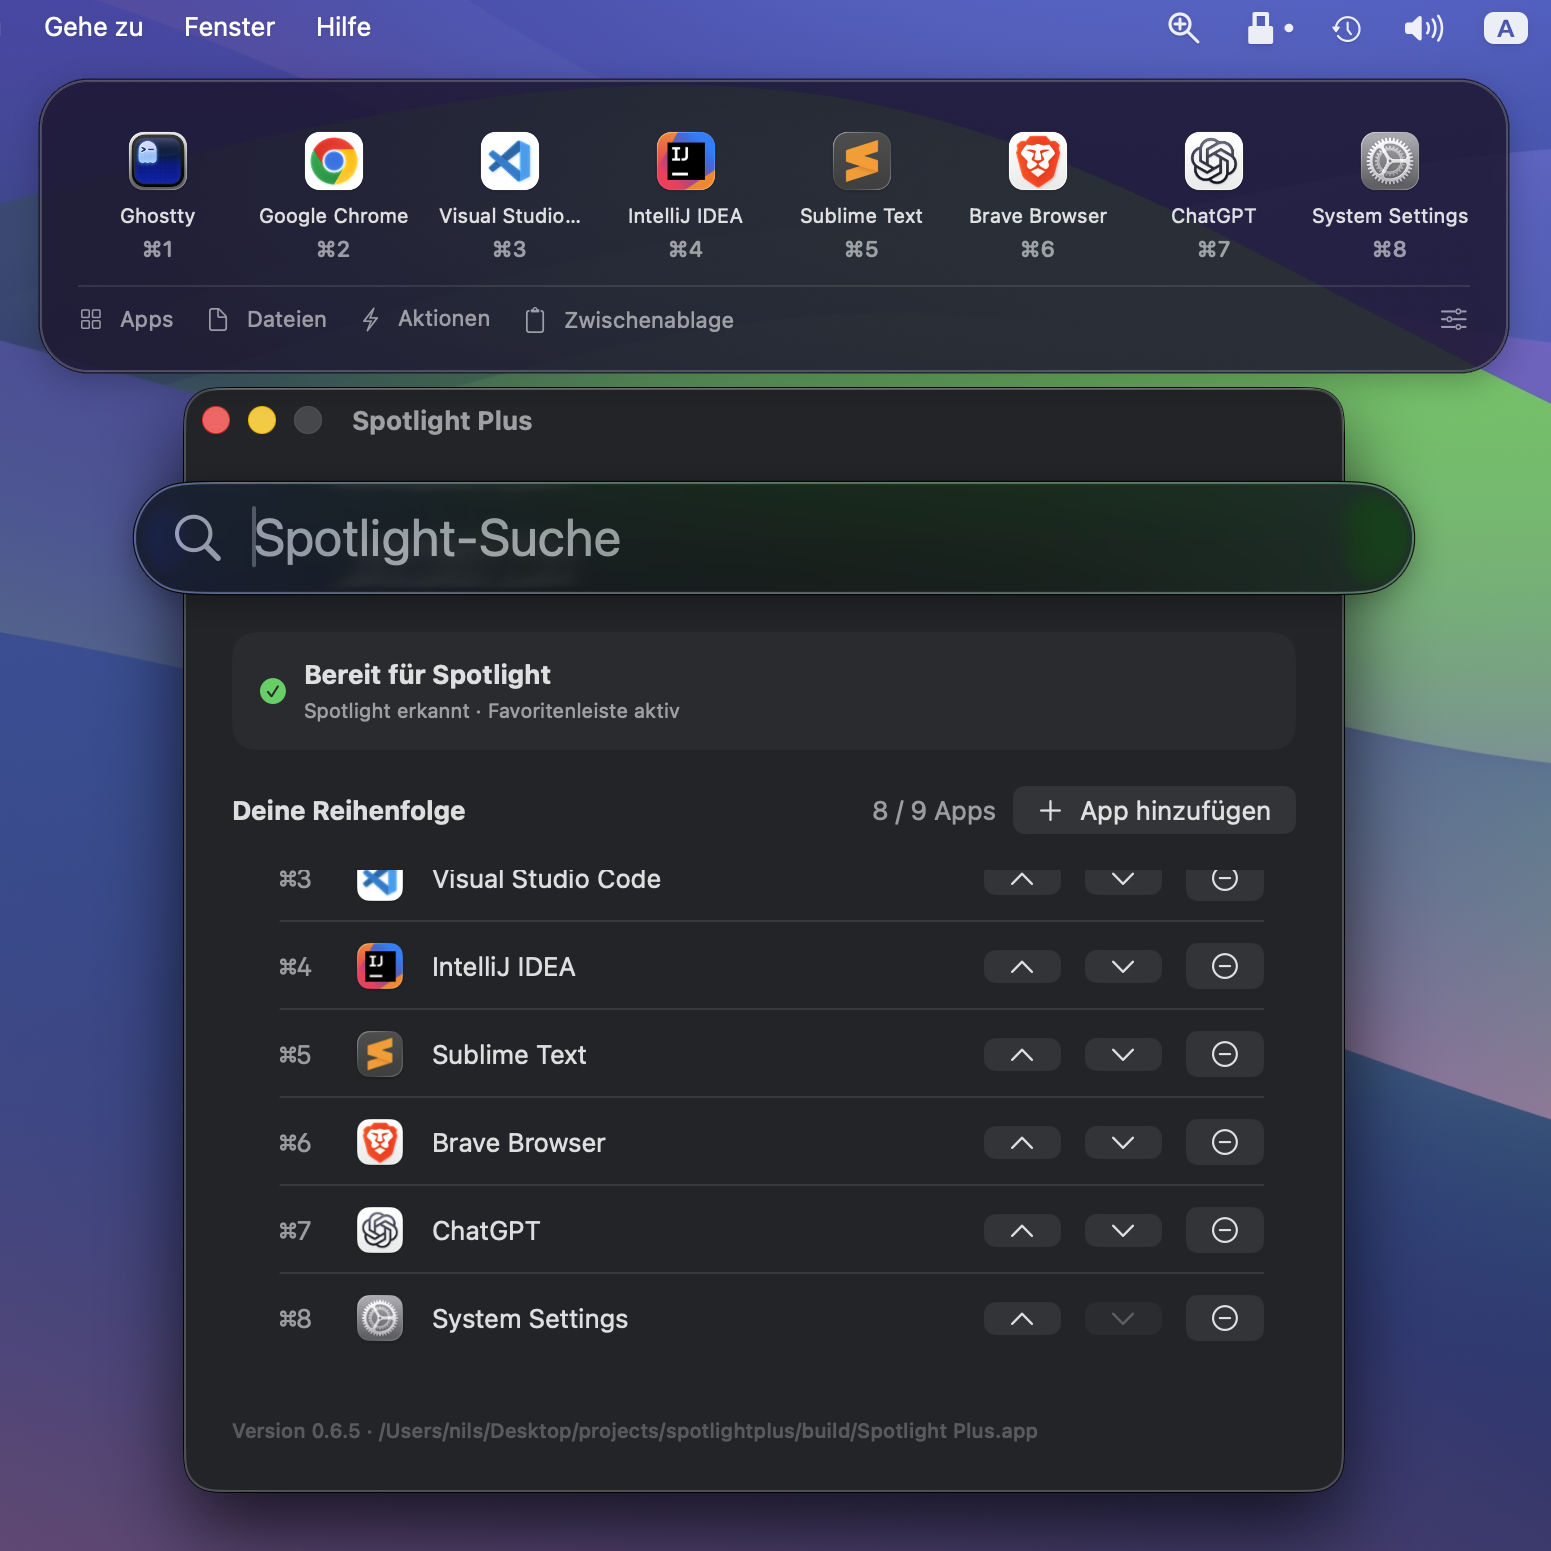
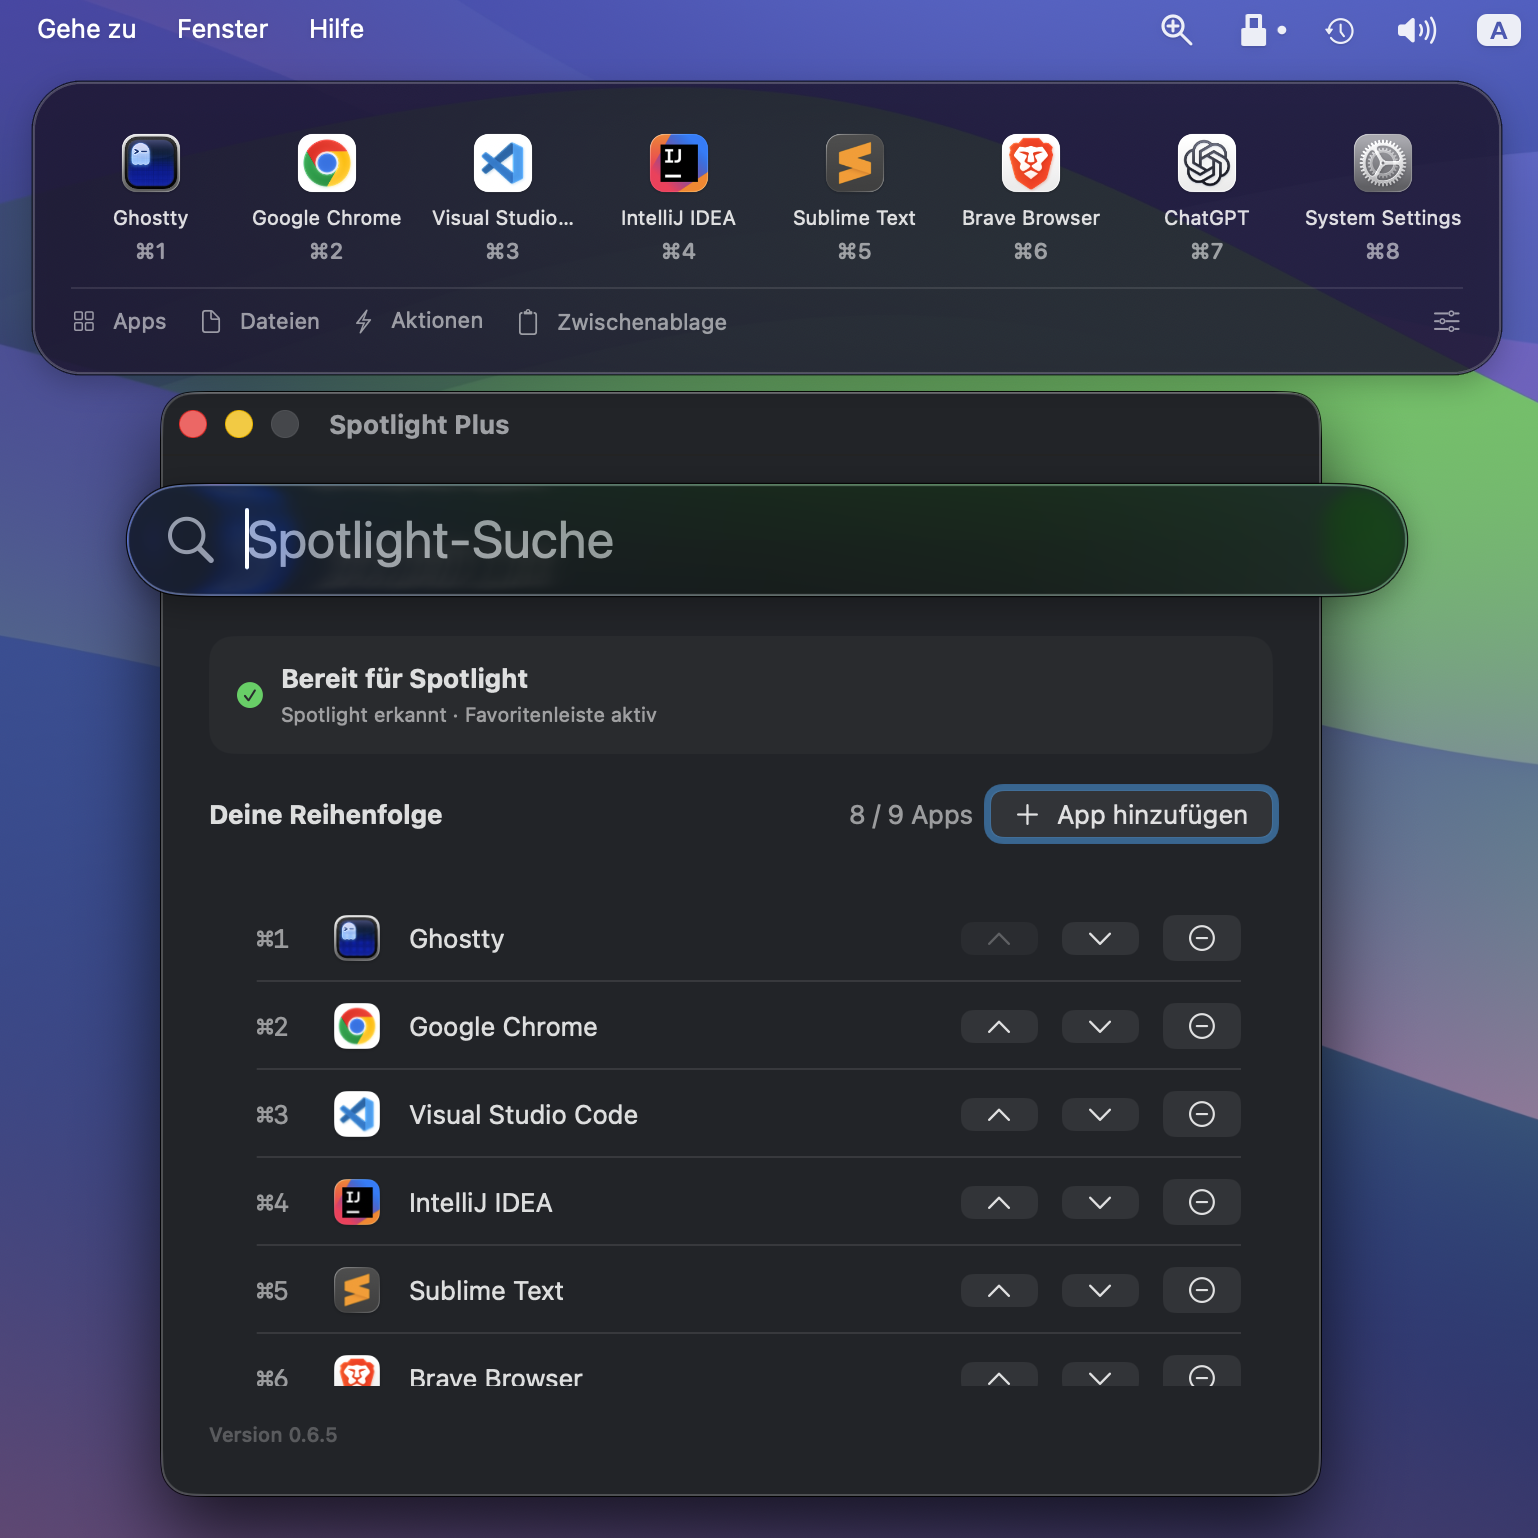
Updated UI + preview

diff --git a/Sources/SpotlightPlus.swift b/Sources/SpotlightPlus.swift
@@ -401,7 +401,7 @@ struct SettingsView: View {
                     }.padding(.vertical, 4)
                 }
             }.listStyle(.inset).frame(minHeight: 220)
-            Text("Version \(Bundle.main.infoDictionary?["CFBundleShortVersionString"] as? String ?? "–") · \(Bundle.main.bundleURL.path)").font(.caption2).foregroundStyle(.tertiary).textSelection(.enabled)
+            Text("Version \(Bundle.main.infoDictionary?["CFBundleShortVersionString"] as? String ?? "–")").font(.caption2).foregroundStyle(.tertiary).textSelection(.enabled)
         }.padding(24).frame(width: 580, height: 520)
         .alert("Hinweis", isPresented: Binding(get: { favorites.error != nil }, set: { if !$0 { favorites.error = nil } })) { Button("OK") { favorites.error = nil } } message: { Text(favorites.error ?? "") }
     }
